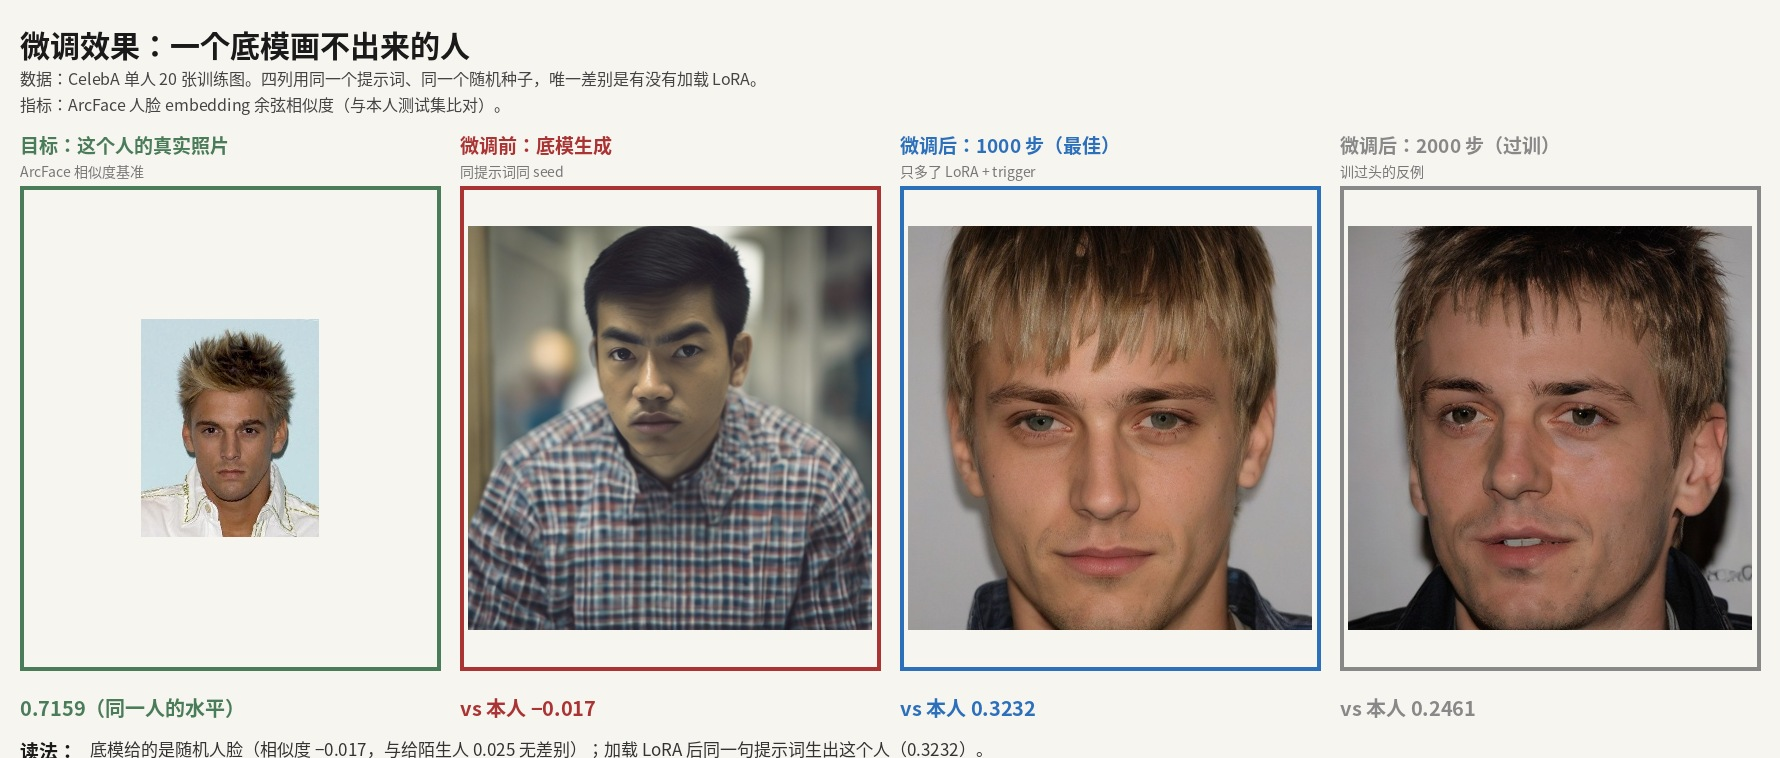
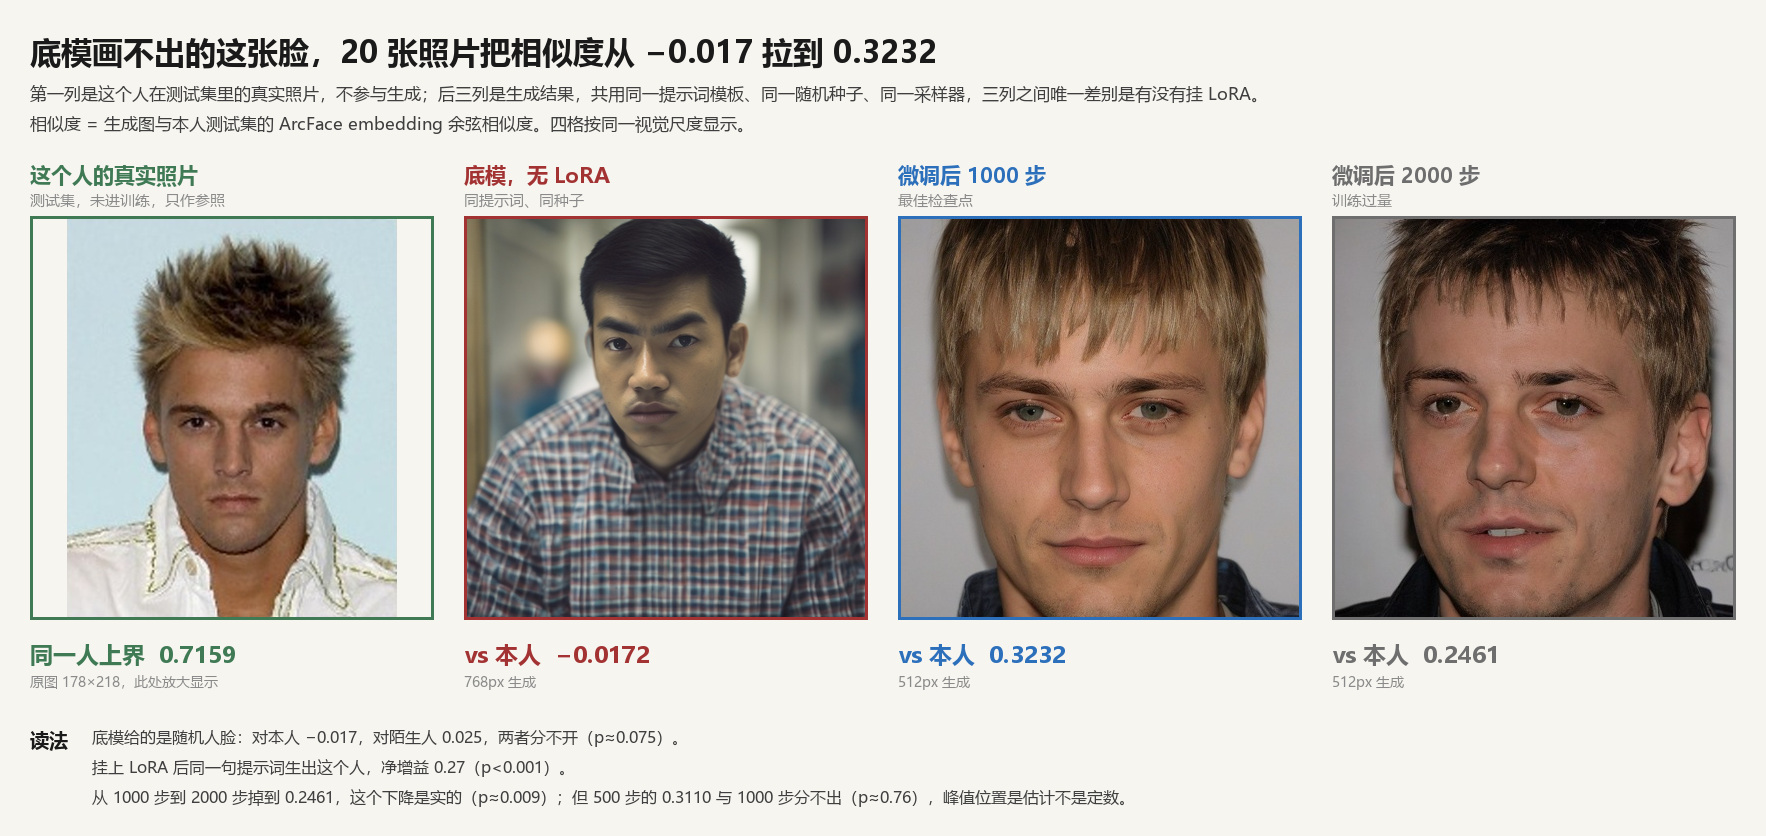
fix(image-finetune): 对比图第一格恢复视觉权重，修正图内两处事实错误
第一格真人照原图 289x345（拼图里被缩到 180x224），落在 411x475 画框里
填充率 20%，而后三格生成图填充 84%——最该看清的那张脸最小，视觉权重与
证据地位反了。根因是拼图脚本用 thumbnail()，它只缩不放。

改为按画框等比放大到 398x475，填充 94%。放大是必要的：源数据 178x218，
相对原图累计放大 2.18 倍，梯度幅值保留 79%。图中另有两处事实错误一并修正：
副标题原称"四列用同一提示词"但第一列是真实照片不参与生成；页脚原称
"训过头引入噪点伪影"，实测 2000 步高频能量占比 0.225 vs 1000 步 0.206，
噪点并没有更多，过训体现在相似度下降。

diff --git a/experiments/image-finetune/face_identity_lora/README.md b/experiments/image-finetune/face_identity_lora/README.md
@@ -5,19 +5,30 @@
 
 ## 20 张照片把相似度从 −0.017 拉到 0.3232
 
-数据：CelebA 单人身份（`celeb_id=14`），20 张训练 / 10 张测试。下面四列共用同一
-提示词模板、同一随机种子、同一采样器，唯一差别是有没有挂 LoRA。
+数据：CelebA 单人身份（`celeb_id=14`），20 张训练 / 10 张测试。下图第一列是这个
+人在测试集里的一张真实照片，只作参照，不参与生成；后三列是生成结果，共用同一提
+示词模板、同一随机种子、同一采样器，三列之间唯一差别是有没有挂 LoRA。
 
 相似度 = 生成图与本人测试集的 ArcFace embedding 余弦相似度。
+
+四格按同一视觉尺度显示。第一列源图只有 178×218，摆到与生成图同位要放大 2.2 倍，
+平均锐度（梯度幅值）因此损失约 20%，看着比另外三格软是放大的代价，不是这张照片本身
+的质量问题，也正是这份实验「源分辨率是瓶颈」的直接体现。相似度算的是原图 embedding，
+不是这张拼图，放大不影响任何数字。
 
 ![微调前后对比](docs/evidence/face_compare.jpg)
 
 | 生成方式 | vs 本人 | 分辨率 | 说明 |
 |---|---|---|---|
 | 底模（无 LoRA） | **−0.017** | 768px | 画出来的是另一个人 |
-| 微调后 1000 步（最佳检查点） | **0.3232** | 512px | 同一个人 |
+| 微调后 1000 步（扫描峰值） | **0.3232** | 512px | 同一个人 |
 | 微调后 2000 步（过训） | 0.2461 | 512px | 训练过量的反例 |
 | 参照：这个人自己的照片之间 | 0.7159 | 原图 | 「同一个人」的水平线 |
+
+「扫描峰值」不等于唯一最优：500 步的 0.3110 与 1000 步的 0.3232 之差检验不过
+（Welch t，p≈0.76，n=6 对 7），而 1000 步到 2000 步的 0.0772 下降是实的
+（p≈0.009）。也就是说数据支持「1000 附近达到平台、再往后掉」，不支持「1000 是精确
+最优点」。详见下面「步间 0.01 量级的差异」一节。
 
 **前两行不能直接相减。** 底模基线在 768px 生成，检查点扫描在 512px 生成。分辨率
 影响 ArcFace 可用的像素量，所以 0.3232 与 −0.017 之间的差距里含有分辨率的贡献，
@@ -38,7 +49,7 @@
 - **正对照**：这个人自己的训练集 vs 测试集相似度 0.7159，是「同一个人」的上界。
   微调后 0.3232 约为上界的 45%——方向对，但没学满，这也是下一步的靶子。
 
-底模对这一身份的输出与对陌生人无法区分（−0.017 vs 0.0249），说明靶子是真的：
+底模对这一身份的输出与对陌生人无法区分（−0.017 vs 0.0249，p≈0.075），说明靶子是真的：
 提示词描述不出一张具体的脸，而 20 张照片的 LoRA 可以。
 
 两个对照都在同一批生成图内部比较，因此不受上面那个分辨率差异影响。
@@ -66,24 +77,28 @@
 
 ## 微调有效，但只学到正对照的 45%
 
-底模对该身份的输出与陌生人无法区分（−0.017 vs 0.0249），微调后 0.3232，与负对照的
-净差 0.27。方向是对的，但 0.3232 对正对照 0.7159 只有约 45%——没学满。检查点扫描
-每轮生成 10 张，人脸检出 6 到 9 张（1000 步 7 张），检出率本身也说明生成的人脸还不
-够稳。
+底模对该身份的输出与陌生人无法区分（−0.017 vs 0.0249，Welch t 检验 p≈0.075，分不开），
+微调后 0.3232，与负对照的净差 0.27（p<0.001）。方向是对的，但 0.3232 对正对照
+0.7159 只有约 45%——没学满。检查点扫描每轮生成 10 张，人脸检出 6 到 9 张（1000 步 7
+张），检出率本身也说明生成的人脸还不够稳。
 
 ## 瓶颈是源图分辨率，不是训练参数
 
 检查点扫描 500 / 1000 / 1500 / 2000 步 → 0.3110 / 0.3232 / 0.2518 / 0.2461，1000 步
-见顶后下滑，是过拟合。第二组实验降 lr、减步数、加 caption dropout 想压过拟合，结果
-反而略降（800 步 0.2623）——说明限制不在训练参数。原图仅 178×218，放大训练时
-LoRA 学到的是插值模糊，这个上限不是调参能突破的。
+之后下滑，是过拟合（1000 vs 2000：p≈0.009）。第二组实验降 lr、减步数、加 caption
+dropout 想压过拟合，结果反而略降（800 步 0.2623）——说明限制不在训练参数。原图仅
+178×218，放大训练时 LoRA 学到的是插值模糊，这个上限不是调参能突破的。
 
 ## 步间 0.01 量级的差异超出样本量能区分的范围
 
-按 `vs target` 选最佳步数是 1000 步（0.3232），按 `net gain`（对本人减去对他人）
+按 `vs target` 选峰值是 1000 步（0.3232），按 `net gain`（对本人减去对他人）
 则是 500 步（+0.3114），两个指标不一致。原因是负对照本身在 ±0.05 间浮动，而 500 步
 那批图的负对照恰好接近 0。取 1000 步的理由是 `vs target` 更直接对应「像不像这个人」，
 且 1500 / 2000 步的下降是单调的，峰值位置比具体差值可靠。
+
+用 Welch t 检验逐对核过（n=6 到 9，样本小，结论只作参考）：500 vs 1000 的 0.0122
+差距 p≈0.76，分不出；1000 vs 2000 的 0.0772 差距 p≈0.009，站得住。这与「1000 附近
+是平台、2000 明显掉下来」一致，但不足以支持在 500 与 1000 之间做取舍。
 
 样本量是这份结论最大的软肋：每行 5 到 12 张图，标准差 0.05 量级，步与步之间
 0.01 到 0.02 的差别不足以下判断。要更硬的结论，应把每步生成数提到 50 张以上。
